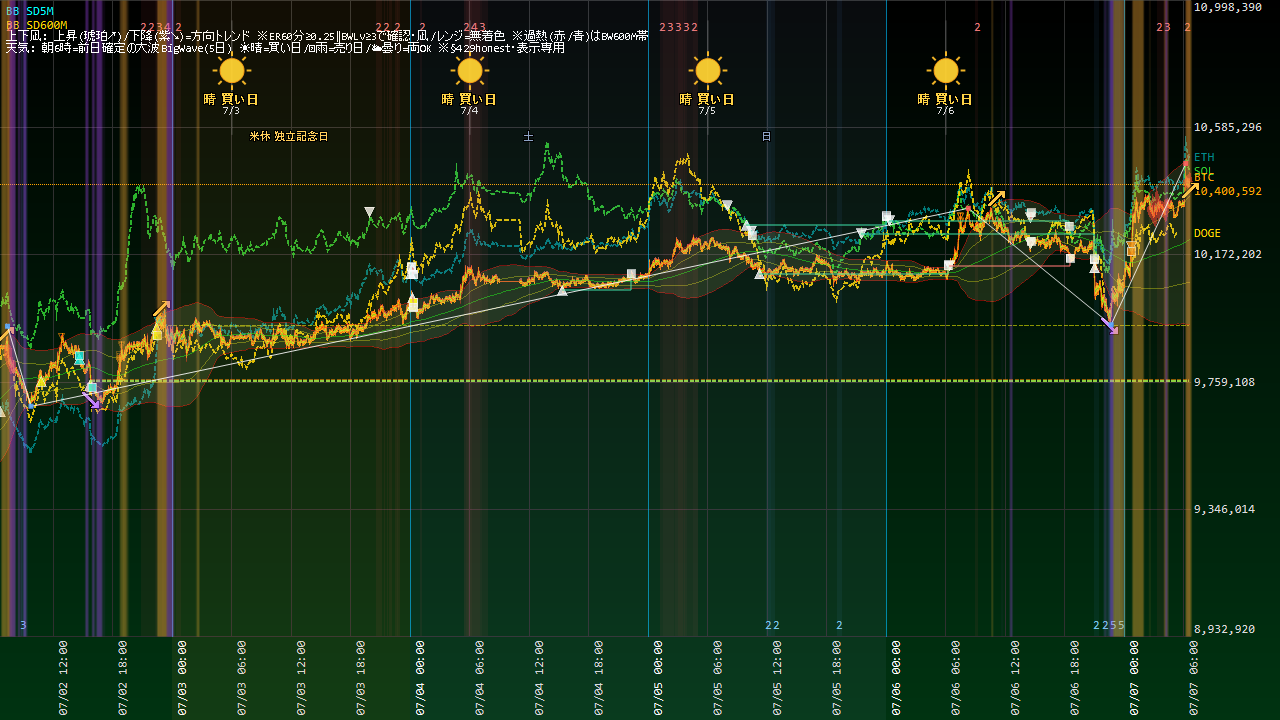
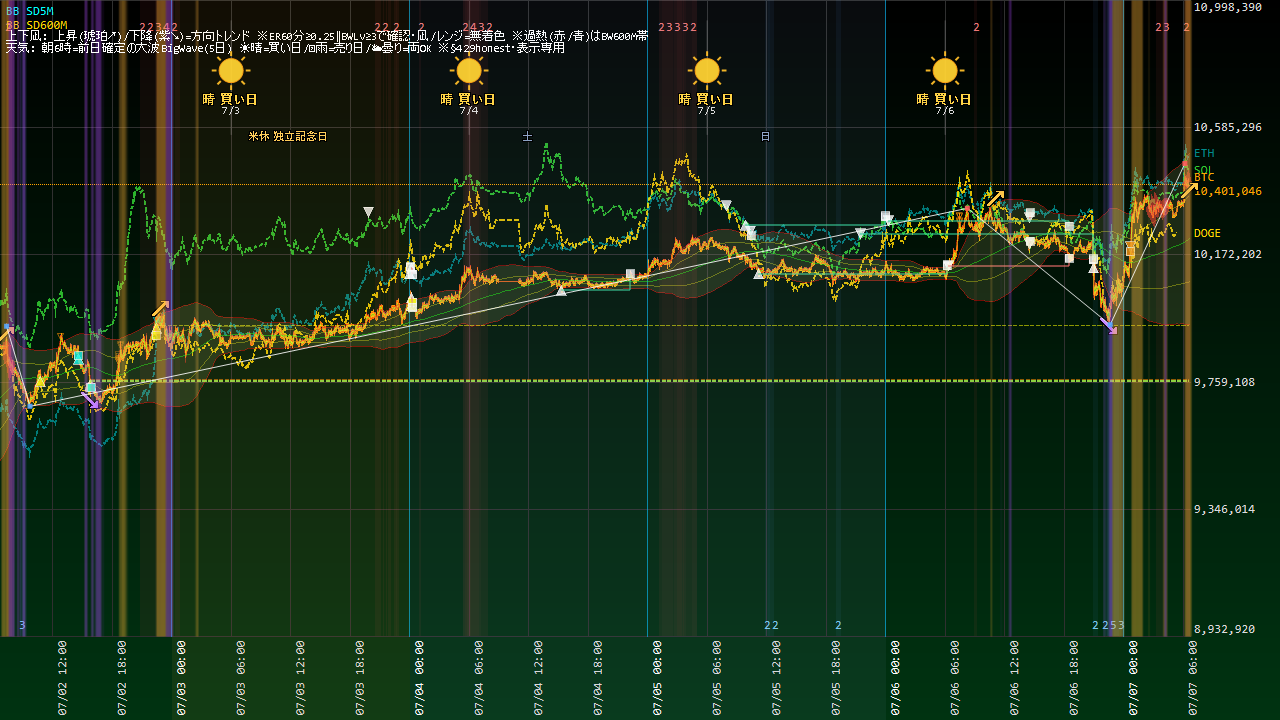
Coin100S 運用状況更新 07-07 06:49

diff --git a/coin100s-795hc4jfv8/index.html b/coin100s-795hc4jfv8/index.html
@@ -14,16 +14,16 @@ a{color:#60a5fa;text-decoration:none} a:hover{text-decoration:underline}
 .meta{color:#94a3b8;font-size:13px}</style>
 <meta http-equiv="refresh" content="300"></head><body>
 <h1>Coin100S ダッシュボード</h1>
-<p class="meta">スナップショット: 2026-07-07 06:44:05(5分毎更新・自動リロード)</p>
+<p class="meta">スナップショット: 2026-07-07 06:49:05(5分毎更新・自動リロード)</p>
 <div class="cards">
 <div class="card">建玉数<div class="v">7</div></div>
 <div class="card">本日損益<div class="v ">?</div></div>
-<div class="card">評価損益<div class="v pos">+368円</div></div>
+<div class="card">評価損益<div class="v pos">+360円</div></div>
 </div>
 <h2>現在の建玉</h2>
-<table><tr><th>銘柄</th><th>側</th><th>数量</th><th>建値</th><th>含損益</th><th>レッグ</th></tr><tr><td>ADA_JPY</td><td>SELL</td><td>320</td><td>@31</td><td>+324円</td><td>RELVAL_SELL</td></tr><tr><td>BCH_JPY</td><td>SELL</td><td>0.1</td><td>@39,606</td><td>-39円</td><td>RELVAL_SELL</td></tr><tr><td>BCH_JPY</td><td>SELL</td><td>0.1</td><td>@39,606</td><td>-39円</td><td>RELVAL_SELL</td></tr><tr><td>BTC_JPY</td><td>BUY</td><td>0.001</td><td>@10,131,087</td><td>+266円</td><td>SIGFADE_BTC</td></tr><tr><td>ETH_JPY</td><td>SELL</td><td>0.03</td><td>@287,845</td><td>-177円</td><td>RELVAL_SELL</td></tr><tr><td>LTC_JPY</td><td>SELL</td><td>1</td><td>@7,333</td><td>-8円</td><td>RELVAL_SELL</td></tr><tr><td>XRP_JPY</td><td>SELL</td><td>50</td><td>@187</td><td>+39円</td><td>RELVAL_SELL</td></tr></table>
+<table><tr><th>銘柄</th><th>側</th><th>数量</th><th>建値</th><th>含損益</th><th>レッグ</th></tr><tr><td>ADA_JPY</td><td>SELL</td><td>320</td><td>@31</td><td>+324円</td><td>RELVAL_SELL</td></tr><tr><td>BCH_JPY</td><td>SELL</td><td>0.1</td><td>@39,606</td><td>-45円</td><td>RELVAL_SELL</td></tr><tr><td>BCH_JPY</td><td>SELL</td><td>0.1</td><td>@39,606</td><td>-45円</td><td>RELVAL_SELL</td></tr><tr><td>BTC_JPY</td><td>BUY</td><td>0.001</td><td>@10,131,087</td><td>+267円</td><td>SIGFADE_BTC</td></tr><tr><td>ETH_JPY</td><td>SELL</td><td>0.03</td><td>@287,845</td><td>-172円</td><td>RELVAL_SELL</td></tr><tr><td>LTC_JPY</td><td>SELL</td><td>1</td><td>@7,333</td><td>-8円</td><td>RELVAL_SELL</td></tr><tr><td>XRP_JPY</td><td>SELL</td><td>50</td><td>@187</td><td>+39円</td><td>RELVAL_SELL</td></tr></table>
 <p><a href="status.html"><b>▶ 運用状況の詳細(チャート・本日の取引・レジーム)</b></a></p>
 <h2>日報一覧</h2>
 <table><tr><th>取引日</th><th>実現損益</th><th>総括</th></tr><tr><td><a href='reports/20260706_Coin100S日報.html'>2026-07-06</a></td><td class="pos">+0円</td><td class='meta'>実取引: 新規9件/決済6件、実現損益 +0円。シグナル却下9件（最多: SD120M_5M／トレンド方向ゲート(N分傾き上と不一致=逆張り方向のfade禁止)）。⚠警告/エラー 150件（要確認）。</td></tr><tr><td><a href='reports/20260705_Coin100S日報.html'>2026-07-05</a></td><td class="pos">+0円</td><td class='meta'>実取引: 新規8件/決済3件、実現損益 +0円。⚠警告/エラー 2件（要確認）。</td></tr><tr><td><a href='reports/20260704_Coin100S日報.html'>2026-07-04</a></td><td class="pos">+0円</td><td class='meta'>実取引: 新規1件/決済2件、実現損益 +0円。⚠警告/エラー 2件（要確認）。</td></tr><tr><td><a href='reports/20260703_Coin100S日報.html'>2026-07-03</a></td><td class="pos">+0円</td><td class='meta'>実取引: 新規5件/決済4件、実現損益 +0円。⚠警告/エラー 15件（要確認）。</td></tr><tr><td><a href='reports/20260702_Coin100S日報.html'>2026-07-02</a></td><td class="pos">+0円</td><td class='meta'>実取引: 新規7件/決済5件、実現損益 +0円。シグナル却下17件（最多: SD120M_5M／トレンド方向ゲート(N分傾き上と不一致=逆張り方向のfade禁止)）。⚠警告/エラー 26件（要確認）。</td></tr><tr><td><a href='reports/20260701_Coin100S日報.html'>2026-07-01</a></td><td class="pos">+0円</td><td class='meta'>実取引: 新規14件/決済8件、実現損益 +0円。シグナル却下14件（最多: SD120M_5M／ボラ軸ゲート(SDN%&amp;gt;N%=高ボラ/荒れレンジ)）。⚠警告/エラー 2件（要確認）。</td></tr><tr><td><a href='reports/20260630_Coin100S日報.html'>2026-06-30</a></td><td class="pos">+0円</td><td class='meta'>実取引: 新規0件/決済1件、実現損益 +0円。シグナル却下29件（最多: 微5M／当日枠N）。警告/孤児/エラーなし＝健全。</td></tr></table>
-<hr><p class="meta">更新: 2026-07-07 06:44:06 / 自動生成: tools/web_publish.py(§580)</p>
+<hr><p class="meta">更新: 2026-07-07 06:49:06 / 自動生成: tools/web_publish.py(§580)</p>
 </body></html>

diff --git a/coin100s-795hc4jfv8/status.html b/coin100s-795hc4jfv8/status.html
@@ -14,19 +14,19 @@ a{color:#60a5fa;text-decoration:none} a:hover{text-decoration:underline}
 .meta{color:#94a3b8;font-size:13px}</style>
 <meta http-equiv="refresh" content="300"></head><body>
 <h1>Coin100S 運用状況</h1>
-<p class="meta">スナップショット: 2026-07-07 06:43:35 / ページ生成: 2026-07-07 06:44:06(5分毎更新・自動リロード) / <a href="index.html">目次へ</a></p>
+<p class="meta">スナップショット: 2026-07-07 06:48:35 / ページ生成: 2026-07-07 06:49:06(5分毎更新・自動リロード) / <a href="index.html">目次へ</a></p>
 <div class="cards">
 <div class="card">建玉数<div class="v">7</div></div>
 <div class="card">本日損益<div class="v ">?</div></div>
-<div class="card">評価損益<div class="v pos">+372円</div></div>
+<div class="card">評価損益<div class="v pos">+366円</div></div>
 </div>
 <h2>取引チャート(直近24h)</h2>
-<img src="status_chart.png?t=0644" alt="chart">
+<img src="status_chart.png?t=0649" alt="chart">
 <h2>建玉一覧</h2>
-<table><tr><th>銘柄</th><th>側</th><th>数量</th><th>建値</th><th>含損益</th><th>レッグ</th></tr><tr><td>ADA_JPY</td><td>SELL</td><td>320</td><td>@31</td><td>+312円</td><td>RELVAL_SELL</td></tr><tr><td>BCH_JPY</td><td>SELL</td><td>0.1</td><td>@39,606</td><td>-39円</td><td>RELVAL_SELL</td></tr><tr><td>BCH_JPY</td><td>SELL</td><td>0.1</td><td>@39,606</td><td>-39円</td><td>RELVAL_SELL</td></tr><tr><td>BTC_JPY</td><td>BUY</td><td>0.001</td><td>@10,131,087</td><td>+267円</td><td>SIGFADE_BTC</td></tr><tr><td>ETH_JPY</td><td>SELL</td><td>0.03</td><td>@287,845</td><td>-177円</td><td>RELVAL_SELL</td></tr><tr><td>LTC_JPY</td><td>SELL</td><td>1</td><td>@7,333</td><td>-8円</td><td>RELVAL_SELL</td></tr><tr><td>XRP_JPY</td><td>SELL</td><td>50</td><td>@187</td><td>+45円</td><td>RELVAL_SELL</td></tr></table>
+<table><tr><th>銘柄</th><th>側</th><th>数量</th><th>建値</th><th>含損益</th><th>レッグ</th></tr><tr><td>ADA_JPY</td><td>SELL</td><td>320</td><td>@31</td><td>+324円</td><td>RELVAL_SELL</td></tr><tr><td>BCH_JPY</td><td>SELL</td><td>0.1</td><td>@39,606</td><td>-45円</td><td>RELVAL_SELL</td></tr><tr><td>BCH_JPY</td><td>SELL</td><td>0.1</td><td>@39,606</td><td>-45円</td><td>RELVAL_SELL</td></tr><tr><td>BTC_JPY</td><td>BUY</td><td>0.001</td><td>@10,131,087</td><td>+266円</td><td>SIGFADE_BTC</td></tr><tr><td>ETH_JPY</td><td>SELL</td><td>0.03</td><td>@287,845</td><td>-168円</td><td>RELVAL_SELL</td></tr><tr><td>LTC_JPY</td><td>SELL</td><td>1</td><td>@7,333</td><td>-8円</td><td>RELVAL_SELL</td></tr><tr><td>XRP_JPY</td><td>SELL</td><td>50</td><td>@187</td><td>+42円</td><td>RELVAL_SELL</td></tr></table>
 <h2>本取引日の実取引(6:00起点)</h2>
 <table><tr><th>時刻</th><th>種別</th><th>側</th><th>銘柄</th><th>数量</th><th>指値</th></tr><tr><td colspan=6>本取引日の実取引なし</td></tr></table>
 <h2>現在レジーム(3軸・§570c)</h2>
-<ul><li>アルト対BTC 5日: <b>+132bps</b>(アルト優越=RELVAL逆風)</li><li>BTC ER240m: <b>0.077</b>(閾値0.25→レンジ(fade順風/BWTRD逆風))</li><li>BTC実現ボラ240m: <b>6.90</b> bps/分</li></ul>
+<ul><li>アルト対BTC 5日: <b>+132bps</b>(アルト優越=RELVAL逆風)</li><li>BTC ER240m: <b>0.086</b>(閾値0.25→レンジ(fade順風/BWTRD逆風))</li><li>BTC実現ボラ240m: <b>6.89</b> bps/分</li></ul>
 <hr><p class="meta">自動生成: tools/web_publish.py(§580・読み取り専用)。売買判断はアプリ本体。</p>
 </body></html>
